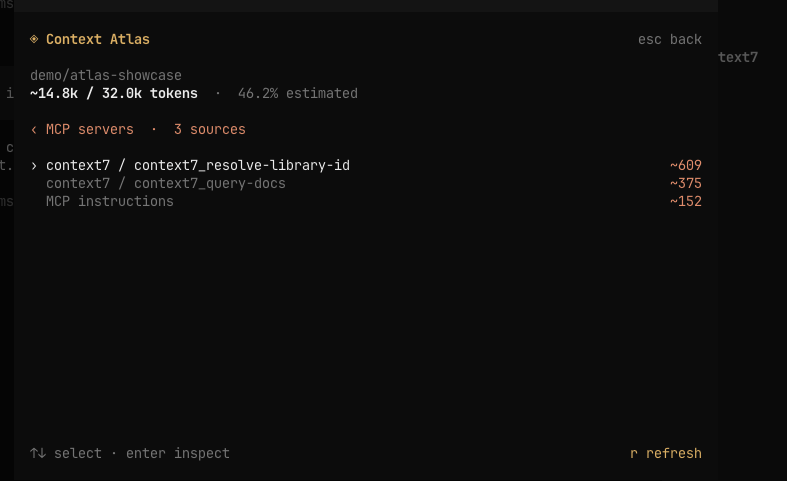
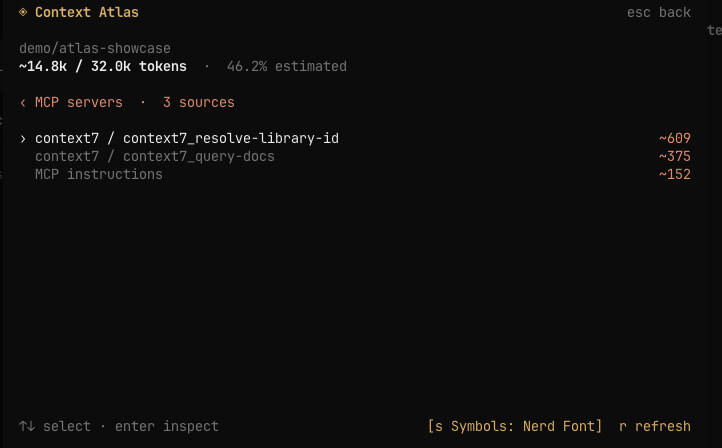
docs: showcase symbol modes and refreshed source inspectors

diff --git a/README.md b/README.md
@@ -4,7 +4,10 @@ A Claude Code-inspired **context map for OpenCode v2**. See what occupies your
 context window, then drill into the actual rules, skills, tool definitions and
 messages behind the numbers.
 
-![Context Atlas showing the context map, category usage and connected Context7 MCP](docs/screenshot-overview.png)
+![Context Atlas with default Nerd Font icons, category usage and the Symbols switch](docs/screenshot-overview-nerd-font.png)
+
+**Nerd Font icons are the default.** Select a Nerd Font Mono in your terminal,
+or use the **Symbols** button / **`s`** to switch to Unicode or plain blocks.
 
 <details>
 <summary>Inspect loaded skills and MCP sources</summary>
@@ -25,6 +28,10 @@ are illustrative demo data.
 
 ![Context7 tool definitions and MCP instructions in their own category](docs/screenshot-mcp.png)
 
+### MCP instructions
+
+![Inspecting the instructions supplied by the connected Context7 server](docs/screenshot-mcp-instructions.png)
+
 </details>
 
 ## Open it
@@ -35,6 +42,8 @@ are illustrative demo data.
 - Select a source to read its captured text. **Esc** goes back, then closes.
 - **`r`** refreshes. Long lists and source previews scroll; narrow terminals stack
   the map above the legend.
+- **Click `Symbols`** in the footer, or press **`s`**, to cycle Blocks → Unicode →
+  Nerd Font. The map and sidebar update together, and your choice is saved.
 
 The command is a local TUI action. Opening the inspector does not send a prompt
 or make a model call.
@@ -44,7 +53,7 @@ or make a model call.
 The sidebar shows a compact context map and estimated usage. Click **Atlas ↗**
 to open the full inspector shown above.
 
-![Atlas context indicator in the main window sidebar, with Context7 connected](docs/screenshot-sidebar.png)
+![Atlas sidebar with default Nerd Font icons and Context7 connected](docs/screenshot-sidebar-nerd-font.png)
 
 ## Install
 
@@ -116,6 +125,80 @@ For a remote server, install the server entry there and configure this package
 in the client's `cli.json` as well. Atlas's RPC retrieves the snapshot from the
 server; it does not assume a shared filesystem. Remote deployment has not yet
 been exercised end to end.
+
+## Category symbols
+
+Use the **`[s Symbols: …]`** button at the bottom of the inspector, or press **`s`**,
+to switch modes immediately. The selected mode is stored in OpenCode's plugin
+storage and survives closing the dialog and restarting OpenCode. No config edit
+or restart is needed when using the button.
+
+### Compare the modes
+
+The main screenshot above shows the default **Nerd Font** mode. Switching symbols
+also updates the sidebar without changing the token counts or category colors.
+
+<details>
+<summary>Unicode symbols and plain blocks</summary>
+
+**Unicode** — distinct symbols without an icon font:
+
+![Context map with Unicode symbols and the Symbols button](docs/screenshot-overview-unicode.png)
+![Sidebar with Unicode category symbols](docs/screenshot-sidebar-unicode.png)
+
+**Blocks** — the original color-only presentation:
+
+![Context map with plain colored blocks](docs/screenshot-overview-blocks.png)
+![Sidebar with plain colored blocks](docs/screenshot-sidebar-blocks.png)
+
+</details>
+
+### Configured default
+
+To choose the initial mode, set `options.symbols` on an explicit TUI plugin entry in your global **`cli.json`**
+(usually `~/.config/opencode/cli.json`):
+
+```jsonc
+{
+  "$schema": "https://opencode.ai/v2/cli.json",
+  "plugins": [
+    "-opencode.sidebar.context",
+    {
+      "package": "github:LerikP/opencode-context-atlas",
+      "options": { "symbols": "unicode" }
+    }
+  ]
+}
+```
+
+If this package is already listed in `cli.json`, replace its string entry with
+the object above. Keep the server plugin entry in `opencode.json(c)` for context
+capture. OpenCode 2.0.22 auto-discovers its TUI entry but does not forward options
+from the server configuration; an explicit `cli.json` entry supplies them and
+takes precedence. For a checkout installation, use your existing local path as
+`package`.
+
+A saved choice from the button takes precedence over this configured default.
+Use the button again to change it.
+
+| `symbols` | Display | Font requirement |
+| --- | --- | --- |
+| `"nerd-font"` (default) | Microchip, document, book, bookmark, wrench, plug, comment, code-file, lightbulb and ellipsis icons | A **Nerd Font Mono** selected in your terminal |
+| `"unicode"` | A different symbol for each category | A font covering the Unicode symbols below; no icon font required |
+| `"blocks"` | Colored blocks | Normal terminal font |
+
+The Unicode legend is **◆** system, **≡** rules, **◇** skill catalogue,
+**◈** loaded skills, **⌘** tools, **⇄** MCP, **●** messages, **▤** tool results,
+**∴** reasoning and **+** other. The map, legend and sidebar use the same category
+symbols; colors and token accounting are unchanged.
+
+For Nerd Font icons, select a font such as **JetBrainsMono Nerd Font Mono** in
+your terminal settings and use `"symbols": "nerd-font"`. Installing a font alone
+does not select it for the terminal. OpenCode cannot report which font or glyphs
+the terminal supports, so Atlas does not auto-detect font availability. If icons
+appear as empty squares or overlap, choose `"unicode"` or `"blocks"` instead.
+Unrecognized option values fall back to blocks. Restart OpenCode after changing
+plugin options.
 
 ## What is counted
 
